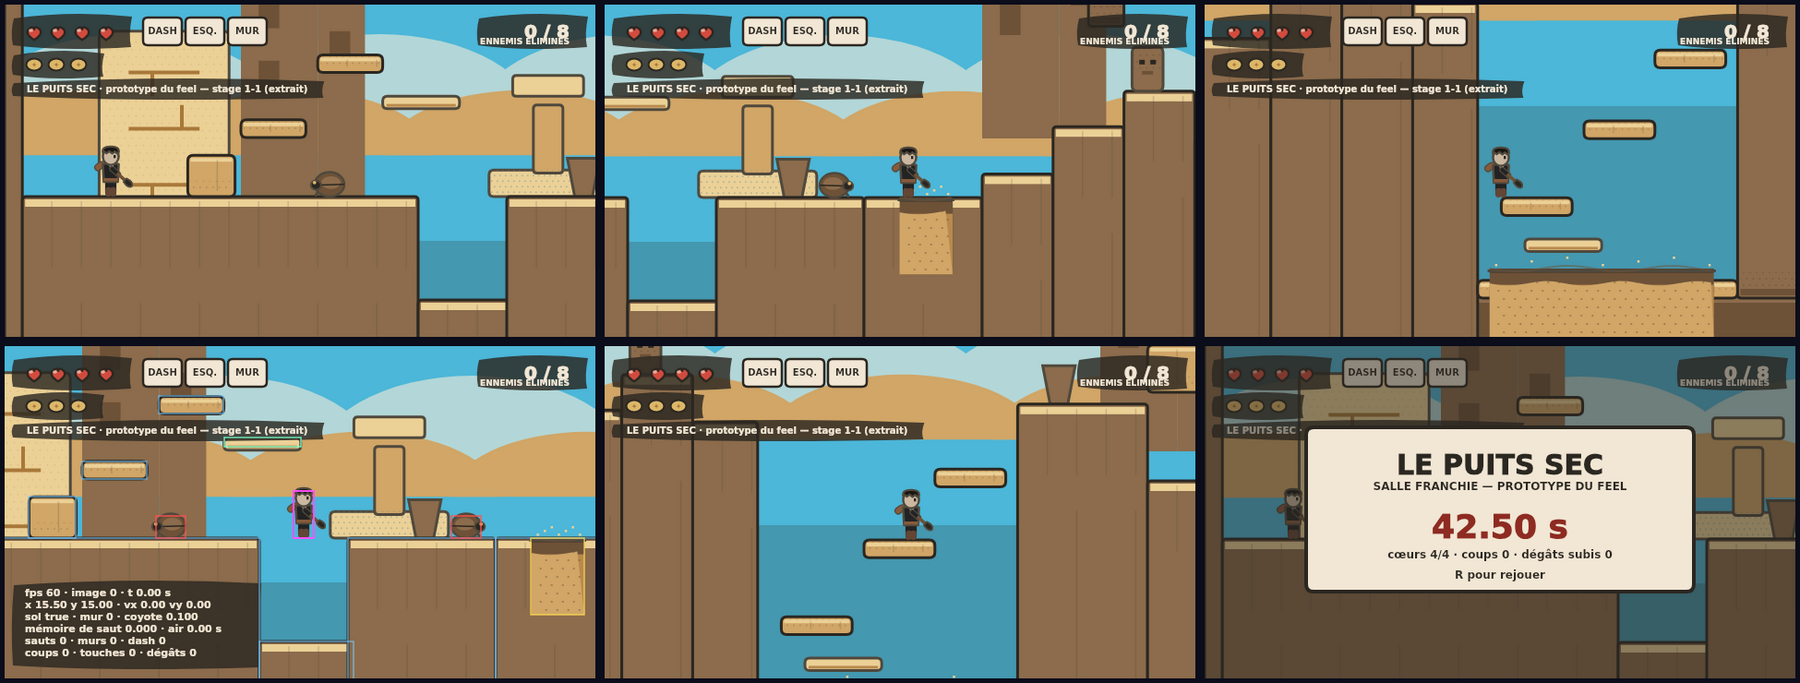
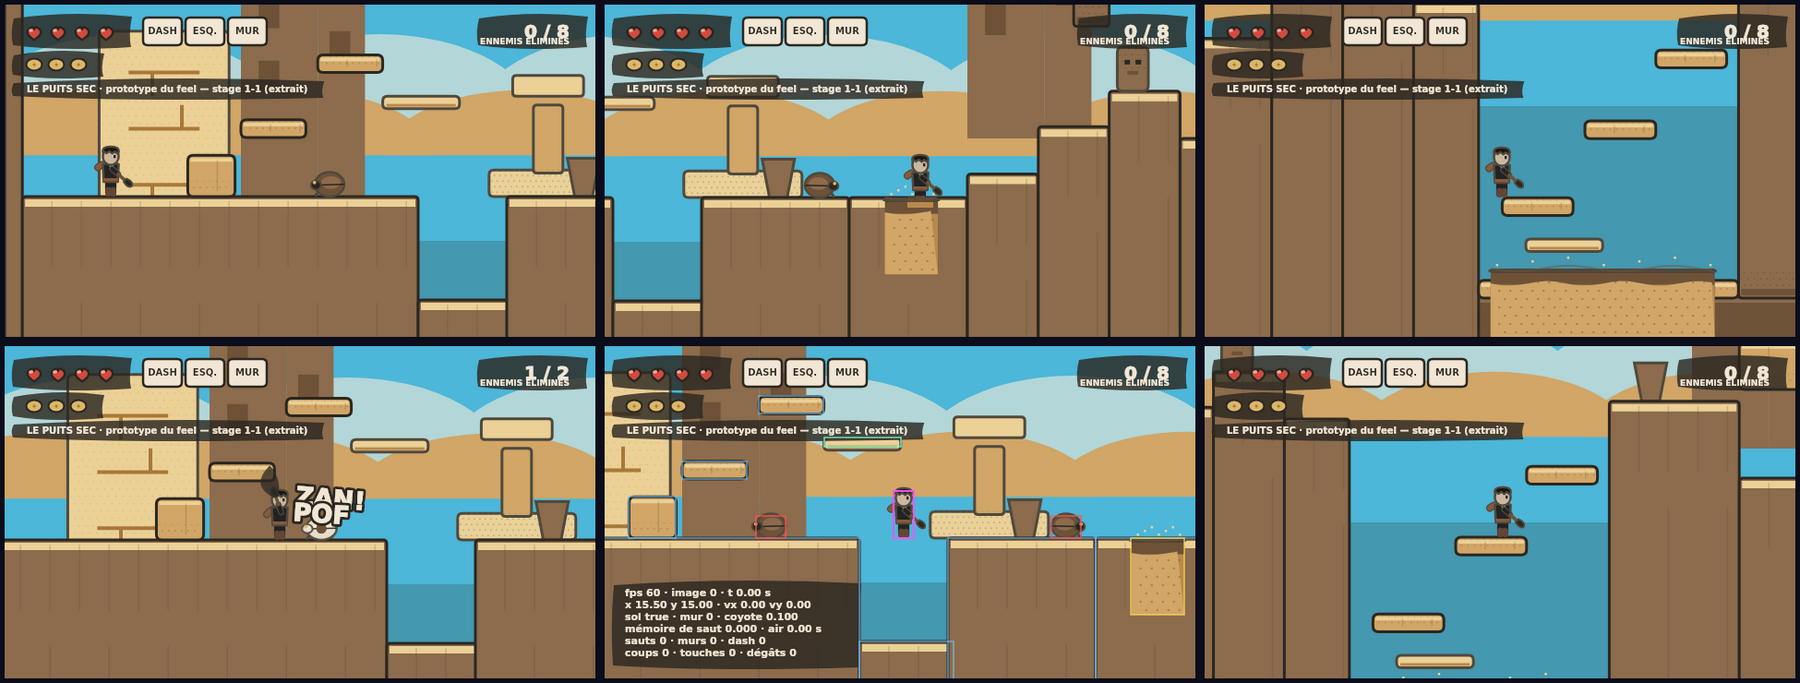
Attaque : le coup part maintenant quand il touche
L'attaque « bizarre » signalée en jouant avait une cause précise : le dessin
et l'impact n'étaient pas sur la même horloge. Le bras restait levé pendant
60 % de l'animation alors que la boîte de coup était déjà ouverte (t 0,12),
puis finissait son geste après sa fermeture (t 0,72) : on touchait pendant la
préparation, et le coup partait après. Trois changements :

- La fenêtre d'impact devient une constante partagée, ATTACK_STRIKE_FROM/TO
  (0,22 → 0,62), lue par la simulation **et** par le dessin du bras, qui la
  parcourt en courbe en S : préparation courte, frappe rapide, bras tendu
  jusqu'au bout. La durée du coup passe de 0,30 à 0,26 s.
- Frapper en courant ne casse plus l'élan : on conserve 90 % de la vitesse
  (le sprint retombait de 8,3 à 3,5 tuiles/s à chaque coup).
- Le 3e coup est un finisseur : la chaîne repart au premier après lui, sinon
  matraquer la touche donnait des coups lourds à l'infini.

Au passage, deux défauts trouvés en vérifiant : le mode mesures F3 recopiait
la géométrie de l'attaque et affichait donc l'ancienne fenêtre (il appelle
maintenant attackBox du moteur), et le croissant d'encre s'affichait pendant
la préparation au lieu de la frappe.

Vérifié par trois tests de plus (29 au total) : conservation de l'élan,
retour au premier coup après le finisseur, et ouverture de la boîte d'impact
au milieu du geste. Planche de contrôle mockups/05 refaite.

diff --git a/src/games/arcadeFeelArt.js b/src/games/arcadeFeelArt.js
@@ -17,7 +17,7 @@
  * vérifiable sans navigateur (voir `scripts/arcade-feel-ui-check.mjs`).
  */
 
-import { TILE, TUNE } from './arcadeFeel.js';
+import { ATTACK_STRIKE_FROM, ATTACK_STRIKE_TO, TILE, TUNE, attackBox } from './arcadeFeel.js';
 
 export const VIEW_W = 640;
 export const VIEW_H = 360;
@@ -511,8 +511,10 @@ function drawHero(ctx, state, painter, cam) {
   const HY = -43.5; // centre de la tête
 
   // --- jambes ---
-  const legA = pose === 'run' ? Math.sin(runCycle) * 9 : pose === 'dodge' ? 11 : 0;
-  const legB = pose === 'run' ? Math.sin(runCycle + Math.PI) * 9 : pose === 'dodge' ? -8 : 0;
+  // courir en attaquant garde la foulée : sinon le héros glisse, jambes figées
+  const legsRun = pose === 'run' || (pose === 'attack' && hero.grounded && speed > 1.2);
+  const legA = legsRun ? Math.sin(runCycle) * 9 : pose === 'dodge' ? 11 : 0;
+  const legB = legsRun ? Math.sin(runCycle + Math.PI) * 9 : pose === 'dodge' ? -8 : 0;
   ctx.strokeStyle = ART.heroJacket;
   ctx.lineWidth = 7;
   ctx.beginPath();
@@ -580,12 +582,17 @@ function drawHero(ctx, state, painter, cam) {
   ctx.fillRect(3, HY - 1.6, 2.4, 3.4);
 
   // --- bras + pinceau à encre ---
+  // Le geste suit la même fenêtre que la boîte d'impact : préparation courte,
+  // frappe rapide (courbe en S), puis bras tendu jusqu'à la fin. Le coup part
+  // donc visiblement **au moment** où il touche.
   let armAngle;
   const swing = hero.attack ? 1 - hero.attack.timer / TUNE.attackTime : 0;
+  const s = clamp((swing - ATTACK_STRIKE_FROM) / (ATTACK_STRIKE_TO - ATTACK_STRIKE_FROM), 0, 1);
+  const strike = s * s * (3 - 2 * s);
   if (pose === 'attack') {
-    if (hero.attack.kind === 'up') armAngle = lerp(-1.1, -2.6, swing);
-    else if (hero.attack.kind === 'down') armAngle = lerp(1.1, 1.9, swing);
-    else armAngle = lerp(-2.2, 0.45, swing);
+    if (hero.attack.kind === 'up') armAngle = lerp(-0.45, -1.62, strike);
+    else if (hero.attack.kind === 'down') armAngle = lerp(0.8, 1.55, strike);
+    else armAngle = lerp(-1.95, 0.42, strike);
   } else if (pose === 'jump') armAngle = -0.5;
   else if (pose === 'fall') armAngle = 0.1;
   else if (pose === 'wall') armAngle = -1.4;
@@ -616,12 +623,15 @@ function drawHero(ctx, state, painter, cam) {
   ctx.quadraticCurveTo(27, 4.8, 18.5, 2.4);
   ctx.closePath();
   inked(ctx, ART.inkHard, ART.ink, 1.8);
-  if (pose === 'attack' && swing > 0.1 && swing < 0.92) {
-    ctx.globalAlpha = 0.62;
+  const inStrike = swing >= ATTACK_STRIKE_FROM && swing <= ATTACK_STRIKE_TO + 0.08;
+  if (pose === 'attack' && inStrike) {
+    // le croissant est le plus opaque juste après l'impact, puis s'efface
+    const glow = 1 - Math.min(1, Math.abs(swing - (ATTACK_STRIKE_FROM + 0.06)) / 0.34);
+    ctx.globalAlpha = 0.28 + 0.5 * glow;
     ctx.beginPath();
     ctx.moveTo(17, -2);
-    ctx.quadraticCurveTo(38, -24 + swing * 18, 52, 4 + swing * 22);
-    ctx.quadraticCurveTo(36, 12 + swing * 10, 17, 3);
+    ctx.quadraticCurveTo(38, -24 + strike * 18, 52, 4 + strike * 22);
+    ctx.quadraticCurveTo(36, 12 + strike * 10, 17, 3);
     ctx.closePath();
     inked(ctx, ART.inkHard, null, 0);
     ctx.globalAlpha = 1;
@@ -838,11 +848,13 @@ function collectEvents(painter, state) {
           const a = (Math.PI * 2 * i) / 10;
           painter.particles.push({ x, y, vx: Math.cos(a) * 90, vy: Math.sin(a) * 70, life: 0.28, max: 0.28, r: 3.5, color: i % 3 === 0 ? ART.paper : ART.inkHard });
         }
-        pop(painter, ev.stage >= 3 ? 'DOON!' : 'ZAN!', x + 8 * dir, y - 12, 6 * dir);
+        // L'onomatopée se pose **au-dessus** de la cible : collée à l'impact, elle
+        // cachait l'ennemi touché et son clignotement blanc, donc le coup.
+        pop(painter, ev.stage >= 3 ? 'DOON!' : 'ZAN!', x + 10 * dir, y - 30, 5 * dir);
         break;
       case 'ricochet':
         burst(painter, x, y, 6, ART.paper, -dir, 2.2);
-        pop(painter, 'TIK!', x, y - 10, -5 * dir);
+        pop(painter, 'TIK!', x, y - 28, -5 * dir);
         break;
       case 'poof':
         for (let i = 0; i < 12; i += 1) {
@@ -1125,21 +1137,10 @@ function drawDebug(ctx, state, room, cam) {
   const h = state.hero;
   box({ left: h.x - h.w / 2, top: h.y - h.h, right: h.x + h.w / 2, bottom: h.y }, 'rgba(255,80,255,0.95)', 2);
 
-  // boîte d'impact de l'attaque en cours
-  if (h.attack) {
-    const t = 1 - h.attack.timer / TUNE.attackTime;
-    if (t >= 0.12 && t <= 0.72) {
-      const r = TUNE.attackReach;
-      let b;
-      if (h.attack.kind === 'up') b = { left: h.x - r * 0.6, right: h.x + r * 0.6, top: h.y - 1.6 + TUNE.attackUpY, bottom: h.y - 0.5 };
-      else if (h.attack.kind === 'down') b = { left: h.x - r * 0.6, right: h.x + r * 0.6, top: h.y + TUNE.attackDownY - 0.9, bottom: h.y + TUNE.attackDownY + 0.2 };
-      else {
-        const left = h.facing > 0 ? h.x + 0.2 : h.x - 0.2 - r;
-        b = { left, right: left + r, top: h.y - 1.6 + TUNE.attackSideY, bottom: h.y - 0.25 };
-      }
-      box(b, 'rgba(255,255,0,0.95)', 2);
-    }
-  }
+  // boîte d'impact de l'attaque en cours — celle du moteur, jamais une copie :
+  // la version recopiée ici avait déjà dérivé (ancienne fenêtre d'impact)
+  const strike = attackBox(h);
+  if (strike) box(strike, 'rgba(255,255,0,0.95)', 2);
 
   // vecteur vitesse
   ctx.strokeStyle = 'rgba(255,255,255,0.9)';

diff --git a/src/games/arcadeFeel.js b/src/games/arcadeFeel.js
@@ -21,6 +21,17 @@
 // Constantes
 // ---------------------------------------------------------------------------
 
+/**
+ * Fenêtre d'impact d'un coup, en part de l'animation (0 → 1).
+ *
+ * Elle est **exportée exprès** : le dessin du bras dans `arcadeFeelArt.js`
+ * utilise les mêmes bornes pour que le coup parte visiblement au moment où il
+ * touche. Avant, le bras finissait son geste alors que la boîte était déjà
+ * fermée — l'attaque se sentait « bizarre », décalée de ce qu'on voyait.
+ */
+export const ATTACK_STRIKE_FROM = 0.22;
+export const ATTACK_STRIKE_TO = 0.62;
+
 export const SIM_HZ = 60;
 export const SIM_DT = 1 / SIM_HZ;
 export const TILE = 32;
@@ -55,14 +66,15 @@ export const TUNE = {
   wallStickGrace: 0.12,
 
   // --- Attaque ------------------------------------------------------------
-  attackTime: 0.3,
-  attackChainWindow: 0.42, // part de l'animation à partir de laquelle on enchaîne
+  attackTime: 0.26,
+  attackChainWindow: 0.52, // part de l'animation à partir de laquelle on enchaîne
   attackBuffer: 0.18,
   attackReach: 1.35,
   attackSideY: -0.25,
   attackUpY: -1.0,
   attackDownY: 1.05,
   attackLunge: 2.6, // élan vers l'avant au moment de la frappe
+  attackSpeedKeep: 0.9, // part de l'élan conservée quand on frappe en courant
   dmgStage: [1, 1, 2], // le 3e coup est lourd
   hitPause: [0.06, 0.07, 0.09],
   knockback: [3.2, 3.6, 6.0],
@@ -532,7 +544,10 @@ function stepHero(state, hero, input) {
     if (remaining <= 0) {
       hero.attack = null;
     } else if (hero.attackBuffer > 0 && TUNE.attackTime - remaining >= TUNE.attackTime * TUNE.attackChainWindow) {
-      startAttack(state, hero, input, hero.attack.stage + 1);
+      // Le 3e coup est un finisseur : après lui, la chaîne repart au premier.
+      // Sans ça, matraquer la touche donnait des coups lourds à l'infini.
+      const next = hero.attack.stage >= 3 ? 1 : hero.attack.stage + 1;
+      startAttack(state, hero, input, next);
     }
   } else if (hero.attackBuffer > 0 && !wantsToDrop) {
     startAttack(state, hero, input, 1);
@@ -673,7 +688,12 @@ function startAttack(state, hero, input, stage) {
   hero.attack = { kind, stage: clampedStage, timer: TUNE.attackTime, hits: [] };
   hero.attackBuffer = 0;
   state.stats.attacks += 1;
-  if (kind === 'side' && hero.grounded) hero.vx = hero.facing * TUNE.attackLunge;
+  // Frapper en courant doit rester courir : on garde l'essentiel de l'élan et on
+  // n'ajoute l'élan d'estoc que si l'on part de l'arrêt (ou presque).
+  if (kind === 'side' && hero.grounded) {
+    const kept = Math.abs(hero.vx) * TUNE.attackSpeedKeep;
+    hero.vx = hero.facing * Math.max(TUNE.attackLunge, kept);
+  }
   pushEvent(state, { type: 'swing', x: hero.x, y: hero.y - 0.8, stage: clampedStage, kind, facing: hero.facing });
 }
 
@@ -681,7 +701,7 @@ function startAttack(state, hero, input, stage) {
 export function attackBox(hero) {
   if (!hero.attack) return null;
   const t = 1 - hero.attack.timer / TUNE.attackTime; // 0 → 1
-  if (t < 0.12 || t > 0.72) return null; // fenêtre active de l'animation
+  if (t < ATTACK_STRIKE_FROM || t > ATTACK_STRIKE_TO) return null;
   const r = TUNE.attackReach;
   if (hero.attack.kind === 'up') {
     return { left: hero.x - r * 0.6, right: hero.x + r * 0.6, top: hero.y - 1.6 + TUNE.attackUpY, bottom: hero.y - 0.5 };

diff --git a/tests/arcade-feel.test.js b/tests/arcade-feel.test.js
@@ -17,9 +17,12 @@
 import test from 'node:test';
 import assert from 'node:assert/strict';
 import {
+  ATTACK_STRIKE_FROM,
+  ATTACK_STRIKE_TO,
   TUNE,
   SIM_DT,
   ROOMS,
+  attackBox,
   createState,
   step,
   heldInput,
@@ -256,6 +259,55 @@ test('l’enchaînement des trois coups monte en puissance', () => {
   run(state, 40, {});
   assert.equal(state.hero.attack, null, 'l’attaque doit se terminer');
   assert.equal(state.stats.attacks, 3);
+});
+
+test('frapper en courant ne casse pas l’élan', () => {
+  const state = cleanState(50, 15);
+  run(state, 60, { right: true, sprint: true });
+  const before = state.hero.vx;
+  run(state, 1, { right: true, sprint: true, attackPressed: true, attack: true });
+  assert.ok(before > 8.5, `le sprint doit être lancé (vx ${before.toFixed(2)})`);
+  assert.ok(
+    state.hero.vx >= before * TUNE.attackSpeedKeep - 0.05,
+    `frapper en courant conservait mal l’élan (${before.toFixed(2)} → ${state.hero.vx.toFixed(2)})`,
+  );
+  assert.ok(state.hero.vx > TUNE.attackLunge, 'l’élan d’estoc ne doit pas remplacer la course');
+});
+
+test('matraquer la touche ne donne pas des coups lourds à l’infini', () => {
+  const state = cleanState(50, 15);
+  const stages = [];
+  let last = null;
+  for (let i = 0; i < 120 && stages.length < 4; i += 1) {
+    run(state, 1, { attackPressed: true, attack: true });
+    const a = state.hero.attack;
+    if (a && a !== last && a.timer > TUNE.attackTime * 0.9) stages.push(a.stage);
+    if (a) last = a;
+  }
+  assert.deepEqual(stages, [1, 2, 3, 1], 'après le coup lourd, la chaîne doit repartir au premier');
+});
+
+test('la boîte d’impact s’ouvre au milieu du geste, pas pendant la préparation', () => {
+  const state = cleanState(50, 15);
+  run(state, 1, { attackPressed: true, attack: true });
+  const opens = [];
+  for (let i = 0; i < 20 && state.hero.attack; i += 1) {
+    const t = 1 - state.hero.attack.timer / TUNE.attackTime;
+    if (attackBox(state.hero)) opens.push(t);
+    run(state, 1, { attack: true });
+  }
+  assert.ok(opens.length >= 4, `la fenêtre d’impact doit durer quelques images (${opens.length})`);
+  assert.ok(
+    opens[0] >= ATTACK_STRIKE_FROM - 0.03 && opens[0] <= ATTACK_STRIKE_FROM + 0.1,
+    `la boîte s’ouvre à t ${opens[0].toFixed(2)} au lieu de ${ATTACK_STRIKE_FROM}`,
+  );
+  assert.ok(
+    opens[opens.length - 1] <= ATTACK_STRIKE_TO + 0.05,
+    `la boîte reste ouverte après la fin du geste (t ${opens[opens.length - 1].toFixed(2)})`,
+  );
+  // le dessin du bras lit ces mêmes bornes : si elles bougent, la planche de
+  // contrôle (mockups/05) doit être refaite
+  assert.ok(ATTACK_STRIKE_FROM < ATTACK_STRIKE_TO);
 });
 
 test('la coque du golem ricoche, l’attaque plongeante le casse', () => {
